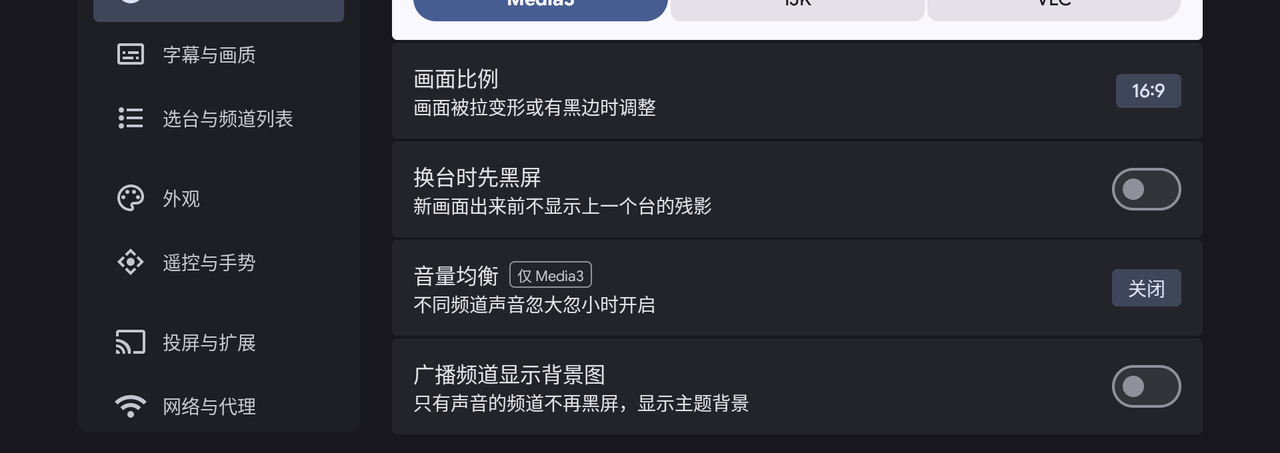
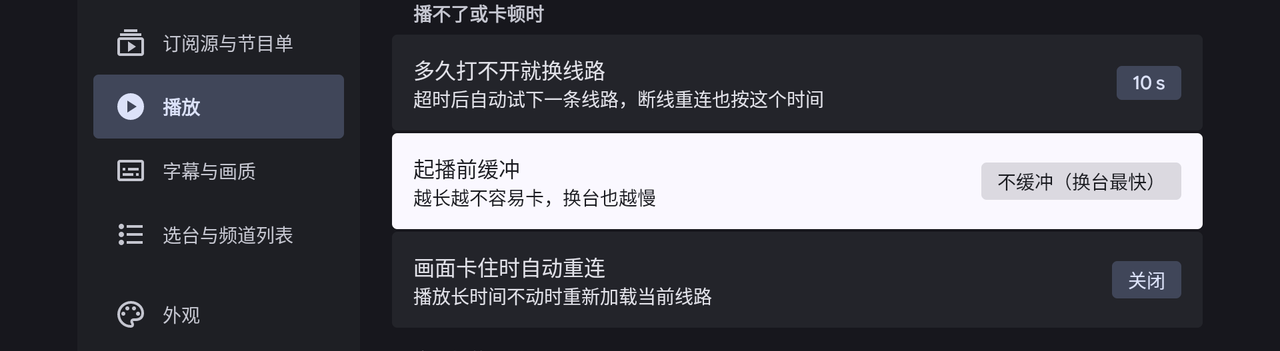
docs(screenshots): app-player-startup 改拍「播不了或卡顿时」小节
上一张是播放页顶部的重复裁剪，图说却写着「播不了或卡顿时」，对不上。
重新往下滚到该小节再截，裁剪框按新位置量过（0,225,1920,752），
图说改为实际可见的三项 + 「更仔细地识别视频格式」仍在页底高级设置。

diff --git a/src/app/pages/rtp2httpd/rtp2httpd.ts b/src/app/pages/rtp2httpd/rtp2httpd.ts
@@ -265,7 +265,7 @@ http://192.168.1.1:5140/rtp/239.253.64.121:5140?fcc=10.255.14.152:8027&amp;fcc-t
       <doc-shot
         src="screenshots/app-player-startup.png"
         alt="电视端设置 → 播放页：播不了或卡顿时"
-        caption="「设置 → 播放」页往下滚。「更仔细地识别视频格式」在页底「高级设置」里，「多久打不开就换线路」「起播前缓冲」在同页「播不了或卡顿时」小节。"
+        caption="「设置 → 播放」页往下滚到「播不了或卡顿时」小节：「多久打不开就换线路」「起播前缓冲」「画面卡住时自动重连」都在这儿；「更仔细地识别视频格式」在页底收起的「高级设置」里。"
       />
       <p>
         FCC 服务器地址需要自己抓包或查社区汇总；rtp2httpd 跑在 NAT 后面（NAS、二级路由）时，

diff --git a/tools/screenshots/crop-mark.py b/tools/screenshots/crop-mark.py
@@ -48,8 +48,8 @@ APP_JOBS = {
     'app-channels': ('07-allch', (0, 0, 1920, 1080), [], 1280),
     'app-settings': ('08-settings', (0, 0, 1920, 1080), [], 1280),
     'app-player-top': ('14-player-key', (0, 0, 1920, 1080), [], 1280),
-    # 同一页往下滚：起播相关的项在「播不了或卡顿时」小节里，裁掉上面的「播放内核」卡片
-    'app-player-startup': ('14-player-key', (0, 400, 1920, 1080), [], 1280),
+    # 同一页往下滚：起播相关的项在「播不了或卡顿时」小节里，裁掉上面的「常用」卡片
+    'app-player-startup': ('31-player-scroll1', (0, 225, 1920, 752), [], 1280),
     'app-sources': ('15-source-list', (0, 0, 1920, 890), [], 1280),
     # 列表往下是空的，裁到「添加聚合配置」为止；这张只取页头 + 第一条，用来看单行的字段
     'app-sources-custom': ('16-source-custom', (0, 0, 1920, 400), [], 1280),
